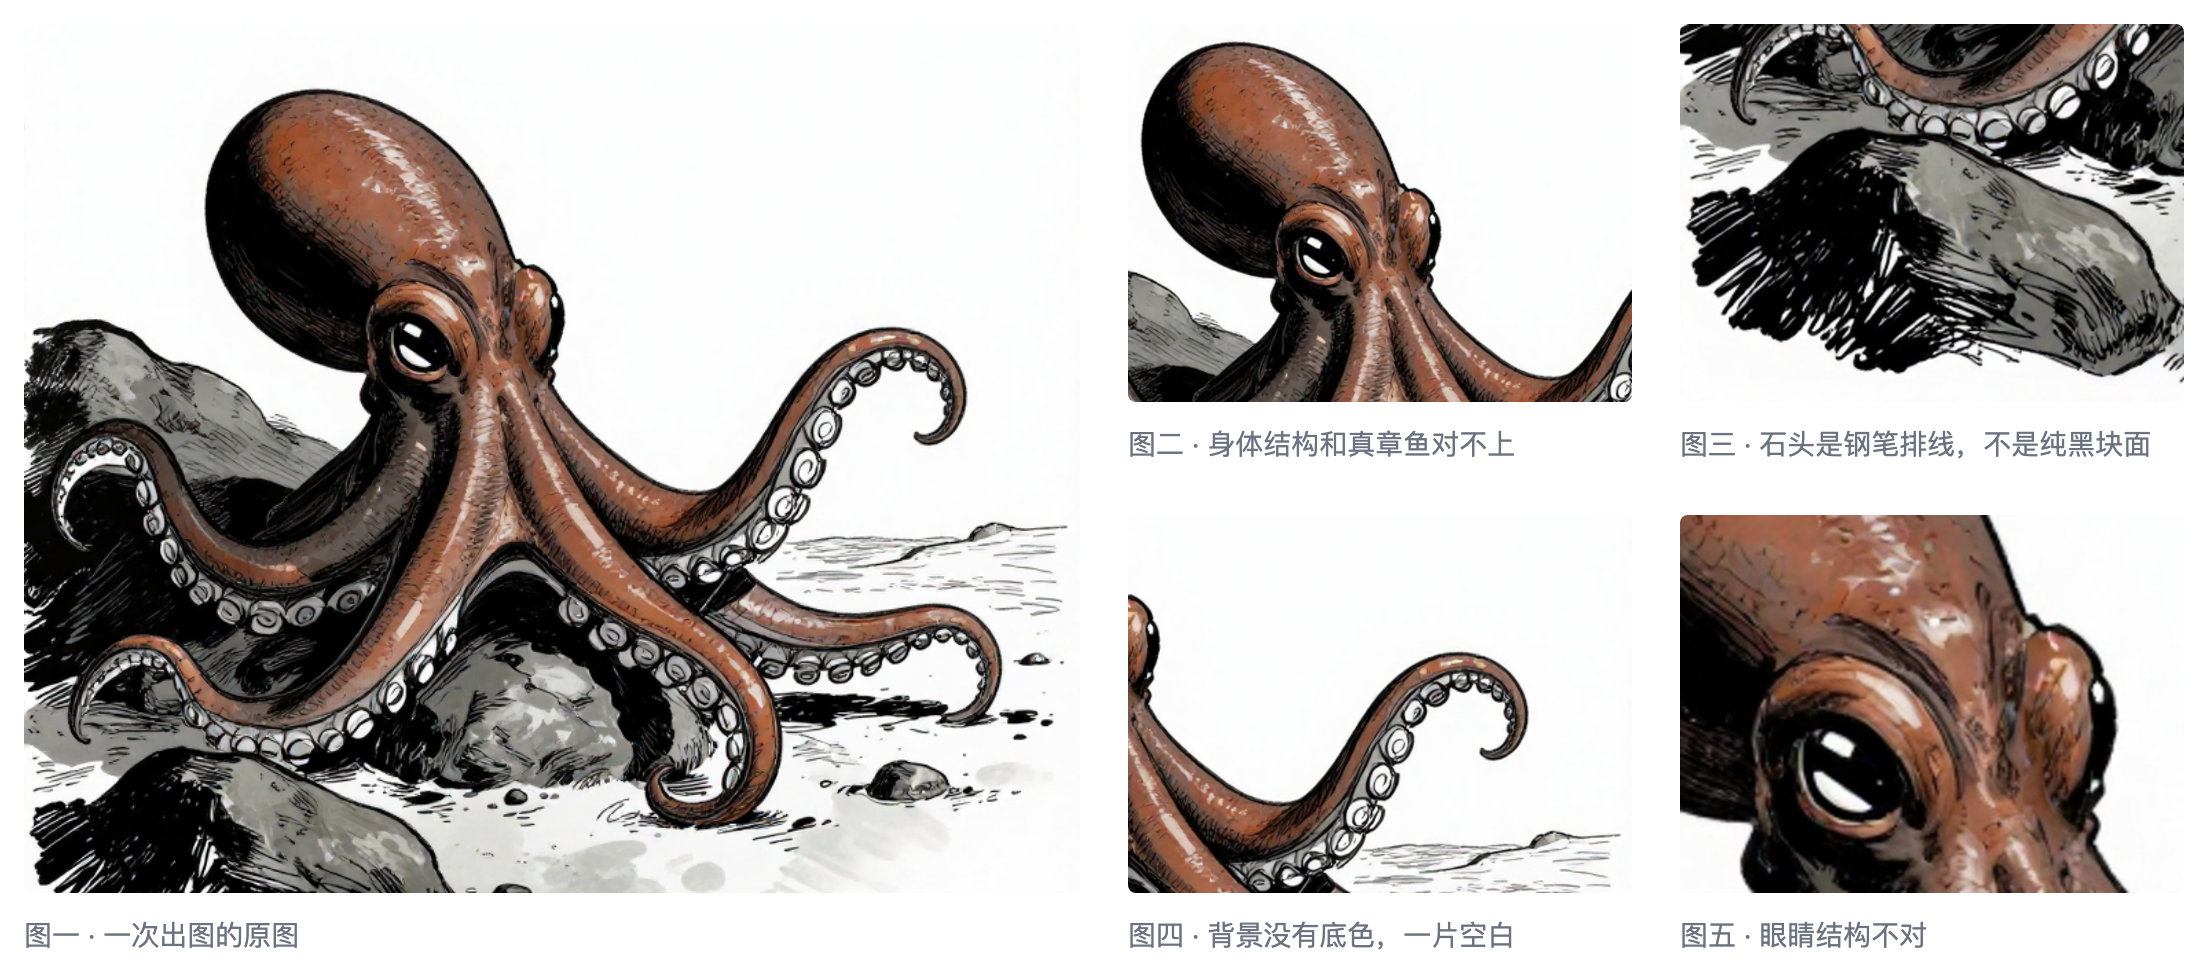
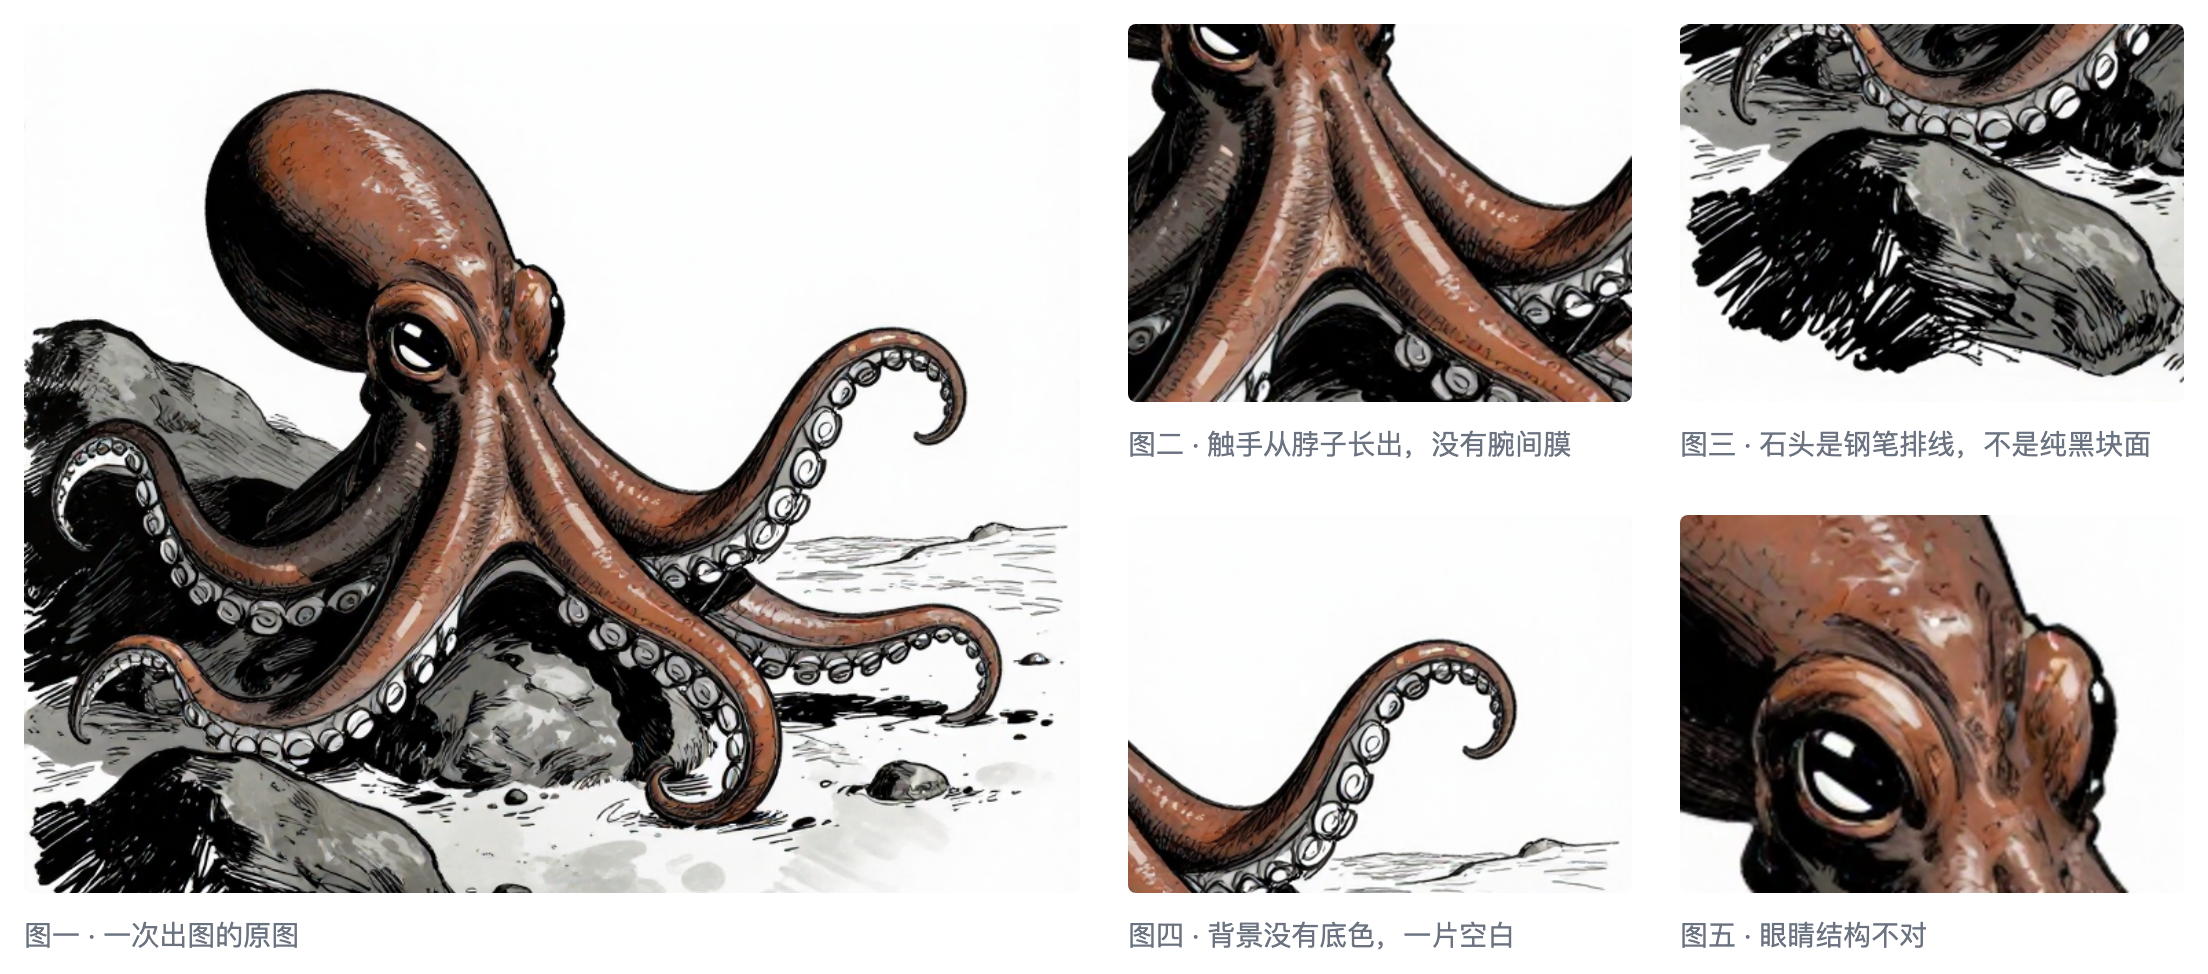
配图: 一次出图换成主次图网格，左原图右四处局部放大，直接指出问题在哪
cold reader 反馈一次出图那张看着没毛病，说「效果不好」却没给证据。改成原图 + 四个局部（触手没有腕间膜、礁石是排线不是纯黑、背景无底色、眼睛结构），读者能自己看到差在哪。

Changed region(s): [[0.5, 0.0, 0.75, 0.4928], [0.5, 0.616, 0.75, 0.924]]

diff --git a/articles/2026-10-01-ink-style-photorealistic/images/one-shot-flaws-feature-grid.source.html b/articles/2026-10-01-ink-style-photorealistic/images/one-shot-flaws-feature-grid.source.html
@@ -15,7 +15,7 @@
         <div style="width: 100%; aspect-ratio: 4/3; border-radius: 4px; overflow: hidden;">
           <img src="file:///Users/husongtao/Projects/newsletters/articles/2026-10-01-ink-style-photorealistic/images/one-shot-flaw-body.png" style="width: 100%; height: 100%; object-fit: cover; object-position: top; display: block;">
         </div>
-        <figcaption style="font-size: 14px; color: #6B7280; line-height: 1.6;">图二 · 身体结构和真章鱼对不上</figcaption>
+        <figcaption style="font-size: 14px; color: #6B7280; line-height: 1.6;">图二 · 触手从脖子长出，没有腕间膜</figcaption>
       </figure>
       <figure style="margin: 0; display: flex; flex-direction: column; gap: 10px;">
         <div style="width: 100%; aspect-ratio: 4/3; border-radius: 4px; overflow: hidden;">

diff --git a/articles/2026-10-01-ink-style-photorealistic/draft.md b/articles/2026-10-01-ink-style-photorealistic/draft.md
@@ -11,7 +11,7 @@
 
 比如出来的图片构图不好，或者细节和真实生物不同，那么我还是要再让 AI 出几张，才能抽到满意的效果。
 
-![「图：一次出图的结果，白底钢笔排线风格的红褐色章鱼趴在礁石上，八条触手向四周张开，吸盘画得密密麻麻，背景是淡灰色沙地」](images/octo-A-seed4197717285_00001_.png)
+![「图组：左边是一次出图的原图，白底钢笔排线风格的红褐色章鱼趴在礁石上；右边四张局部放大，分别是触手直接从脖子长出、没有腕间膜，礁石用钢笔排线而不是纯黑块面，背景一片空白没有底色，眼睛结构不对」](images/one-shot-flaws-feature-grid.png)
 
 为了更好的控制，我先让 AI 出了一幅实景图。为了保证效果正确，我还特意加上了专门的提示词。
 
